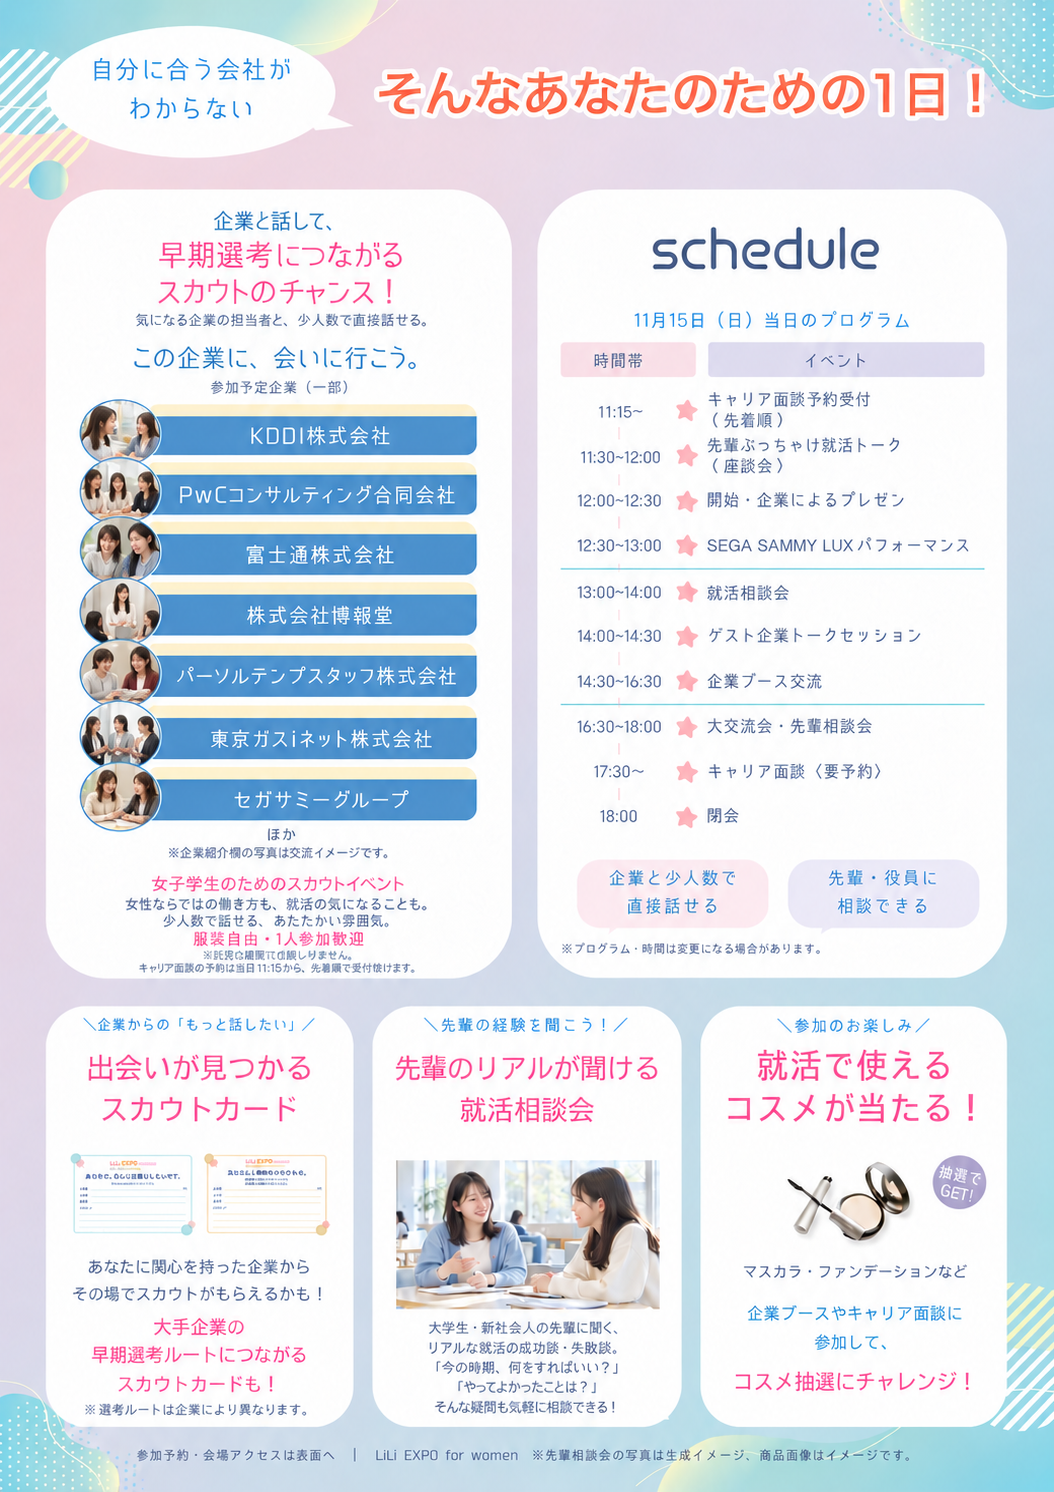
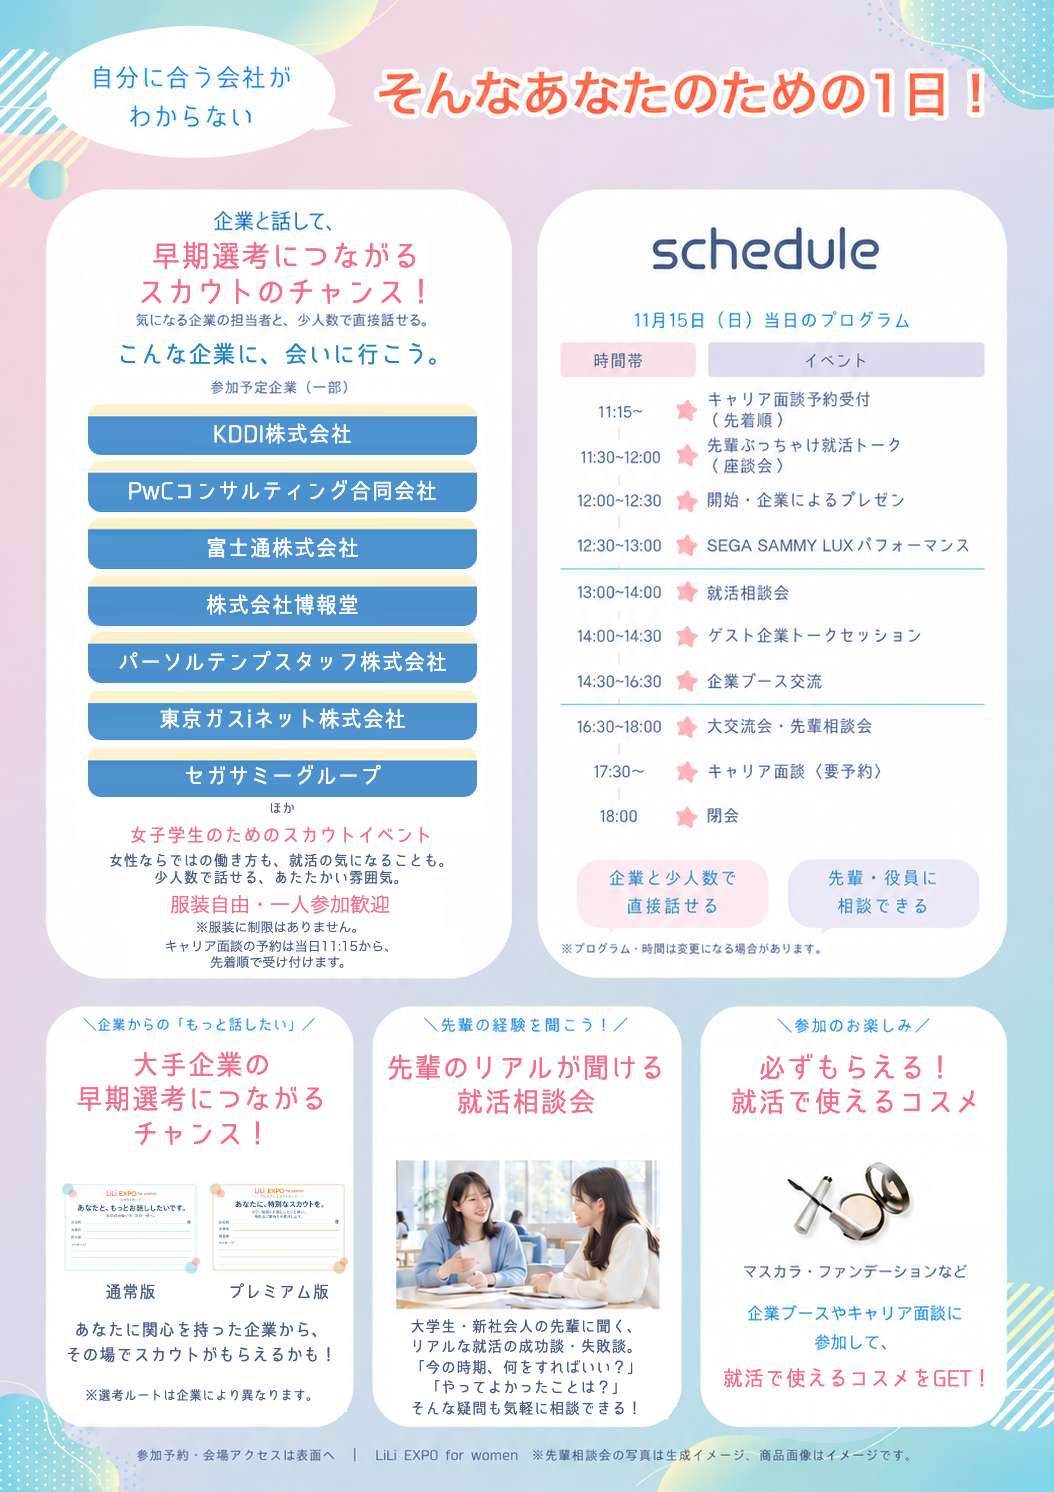
Update flyer and fix company list overlap

diff --git a/index.html b/index.html
@@ -15,7 +15,7 @@
 
   <link rel="icon" href="assets/logo_dake.png">
 
-  <link rel="stylesheet" href="css/style.css?v=16">
+  <link rel="stylesheet" href="css/style.css?v=17">
 
   <script src="js/content.js?v=14" defer></script>
 
@@ -1649,7 +1649,7 @@
 
 
           <div class="flyer-preview" id="flyerFrontPreview">
-            <img src="assets/lili-expo-2026-11-15-front.png?v=2" alt="LiLi EXPO 2026年11月15日 最新チラシ 表面" loading="lazy">
+            <img src="assets/lili-expo-2026-11-15-front.png?v=3" alt="LiLi EXPO 2026年11月15日 最新チラシ 表面" loading="lazy">
 
           </div>
 
@@ -1670,7 +1670,7 @@
           </div>
 
           <div class="flyer-preview" id="flyerBackPreview">
-            <img src="assets/lili-expo-2026-11-15-back.png?v=2" alt="LiLi EXPO 2026年11月15日 最新チラシ 裏面" loading="lazy">
+            <img src="assets/lili-expo-2026-11-15-back.png?v=3" alt="LiLi EXPO 2026年11月15日 最新チラシ 裏面" loading="lazy">
           </div>
 
         </article>
@@ -2325,7 +2325,7 @@
       var flyerFrontPreview = document.getElementById("flyerFrontPreview");
 
       if (flyerFrontPreview) {
-        flyerFrontPreview.innerHTML = '<img src="assets/lili-expo-2026-11-15-front.png?v=2" alt="LiLi EXPO 2026年11月15日 最新チラシ 表面" loading="lazy">';
+        flyerFrontPreview.innerHTML = '<img src="assets/lili-expo-2026-11-15-front.png?v=3" alt="LiLi EXPO 2026年11月15日 最新チラシ 表面" loading="lazy">';
       }
 
       /*

diff --git a/css/style.css b/css/style.css
@@ -2797,9 +2797,12 @@ summary:focus-visible {
 }
 
 .company-name-list li strong {
+  min-width: 0;
   font-size: clamp(1rem, 1.35vw, 1.2rem);
   font-weight: 800;
+  line-height: 1.55;
   letter-spacing: .01em;
+  overflow-wrap: anywhere;
 }
 
 .company-list-footer {
@@ -2833,6 +2836,12 @@ summary:focus-visible {
   margin: 0;
   color: var(--ink-soft);
   font-size: .76rem;
+}
+
+@media (max-width: 1080px) and (min-width: 761px) {
+  .company-name-list {
+    grid-template-columns: repeat(2, minmax(0, 1fr));
+  }
 }
 
 @media (max-width: 760px) {
